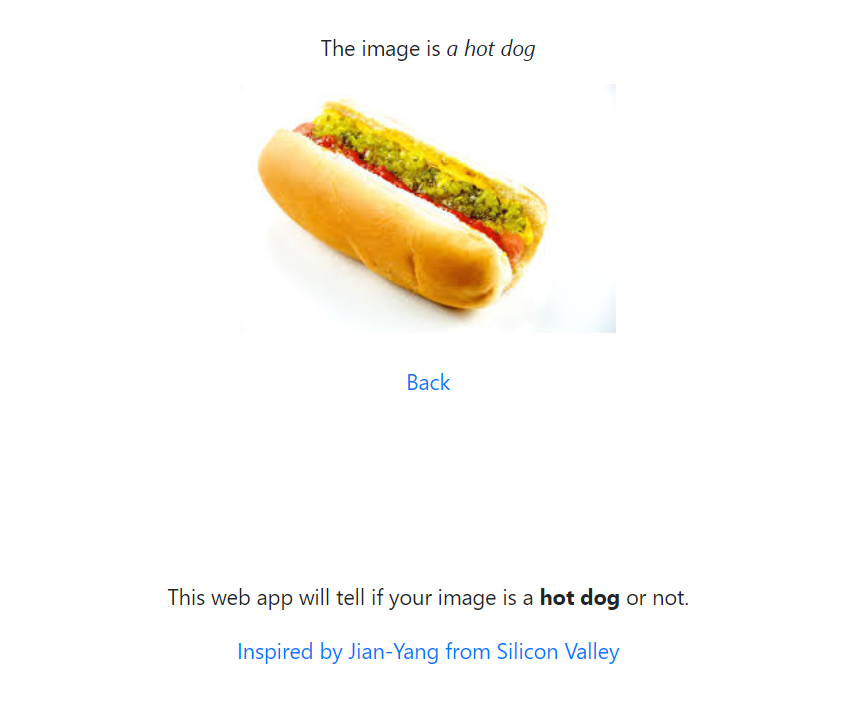
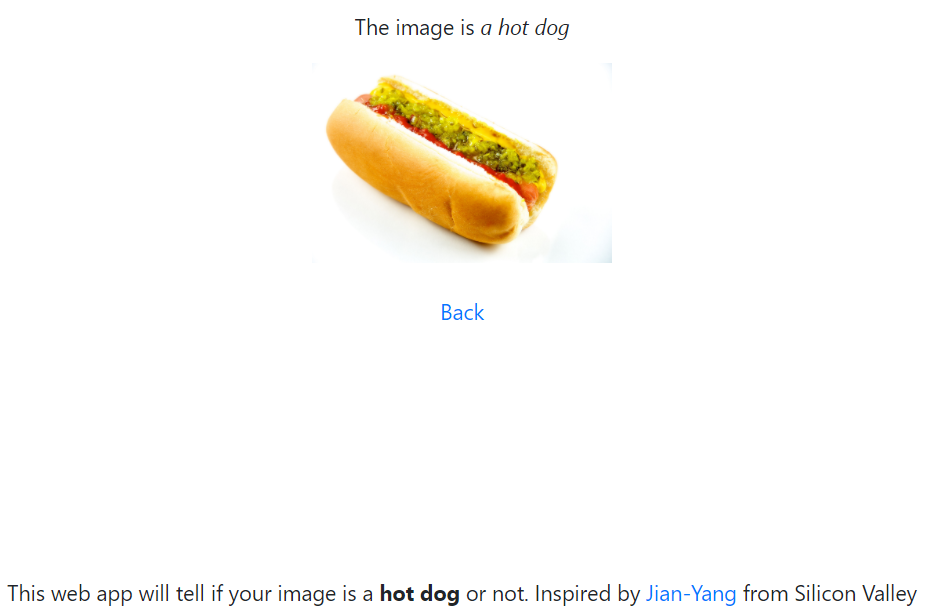
Error handling

diff --git a/templates/layout.html b/templates/layout.html
@@ -12,7 +12,14 @@
             }
             section{
                 margin: auto;
-                height: 80vh;
+                height: 70vh;
+                display: flex;
+                align-items: center;
+                justify-content: center;
+            }
+            .footwrap{
+                margin: auto;
+                height: 25vh;
                 display: flex;
                 align-items: center;
                 justify-content: center;
@@ -21,18 +28,16 @@
     </head>
     <body>
         <section>
-        <div class="container-fluid">
-            <div class="headwrap">
-                {% block body %}
-                {% endblock %}
-            </div>
+            <div class="container">
+                <div class="headwrap">
+                    {% block body %}
+                    {% endblock %}
+                </div>
             <div>
-            </section>
-            <div class="footwrap">
-            <center>
-                <p>This web app will tell if your image is a <strong>hot dog</strong> or not.</p>
-                <a href="https://www.imdb.com/title/tt2575988/" target="_blank">Inspired by Jian-Yang from Silicon Valley</a>
-            </center>
+        </section>
+            <div class="footwrap" style="align-content: center;">
+                <p>This web app will tell if your image is a <strong>hot dog</strong> or not.
+                Inspired by <a href="https://www.imdb.com/title/tt2575988/" target="_blank">Jian-Yang</a> from Silicon Valley</p>
             </div>
 
         <script src="https://code.jquery.com/jquery-3.5.1.slim.min.js" integrity="sha384-DfXdz2htPH0lsSSs5nCTpuj/zy4C+OGpamoFVy38MVBnE+IbbVYUew+OrCXaRkfj" crossorigin="anonymous"></script>

diff --git a/templates/index.html b/templates/index.html
@@ -1,10 +1,9 @@
 {% extends "layout.html" %}
 {% block body%}
+        <a href="https://github.com/shridpant/hungryish" target="_blank"><img src="../static/dinosaur.svg" width="8%"></a>
         <h3>Upload your image!</h3> <br /><br />
         <form method=post enctype=multipart/form-data>
-            <p>
                 <input type=file name=file>
                 <input type=submit value=Upload>
-            </p>
         </form> 
 {% endblock %}

diff --git a/templates/error.html b/templates/error.html
@@ -1,0 +1,6 @@
+{% extends "layout.html" %}
+
+{% block body %}
+    <img width="30%" alt="{{ top }}" src="http://memegen.link/custom/{{ top | urlencode }}/{{ bottom | urlencode }}.jpg?alt=https://i.imgur.com/CsCgN7Ll.png" title="{{ top }}"><br /><br />
+    <a href="/">Back</a>
+{% endblock %}

diff --git a/app.py b/app.py
@@ -1,6 +1,7 @@
 import os 
 from flask import Flask, request, redirect, url_for, render_template
 from werkzeug.utils import secure_filename
+from werkzeug.exceptions import default_exceptions, HTTPException, InternalServerError
 import tensorflow as tf
 import matplotlib.pyplot as plt 
 
@@ -8,38 +9,60 @@ app = Flask(__name__)
 
 @app.route('/', methods=['GET', 'POST']) 
 def main_page():
-    if request.method == 'POST':
-        file = request.files['file']
-        filename = secure_filename(file.filename)
-        file.save(os.path.join('static', filename))
-        return redirect(url_for('prediction', filename=filename))
-    return render_template('index.html')
+    try:
+        if request.method == 'POST':
+            file = request.files['file']
+            filename = secure_filename(file.filename)
+            file.save(os.path.join('static', filename))
+            return redirect(url_for('prediction', filename=filename))
+        return render_template('index.html')
+    except Exception as msg:
+        return error(msg)
 
 @app.route('/prediction/<filename>') 
 def prediction(filename):
-    my_image = os.getcwd() + '\\static\\' + str(filename)
-    html_image = image_file = url_for('static', filename=str(filename))
-    image_file = tf.io.gfile.GFile(my_image, 'rb')
-    data = image_file.read()
-    # Model Initialization
-    classes = [line.rstrip() for line in tf.io.gfile.GFile(os.getcwd() + "\\src\\classes.txt")]
-    with tf.io.gfile.GFile(os.getcwd() + "\\src\\model.pb", 'rb') as inception_graph:
-        definition = tf.compat.v1.GraphDef()
-        definition.ParseFromString(inception_graph.read())
-        _ = tf.import_graph_def(definition, name='')
-    with tf.compat.v1.Session() as session:
-        tensor = session.graph.get_tensor_by_name('final_result:0')
-        #^ Feeding data as input and find the first prediction
-        result = session.run(tensor, {'DecodeJpeg/contents:0': data})
-        top_results = result[0].argsort()[-len(result[0]):][::-1] 
-        max_score = 0
-        for type in top_results:
-            hot_dog_or_not = classes[type]
-            score = result[0][type]
-            if score > max_score:
-                max_score = score
-                predictions = hot_dog_or_not
-    return render_template('predict.html', predictions=str(predictions), my_image=html_image)
+    try:
+        my_image = os.getcwd() + '\\static\\' + str(filename)
+        html_image = image_file = url_for('static', filename=str(filename))
+        image_file = tf.io.gfile.GFile(my_image, 'rb')
+        data = image_file.read()
+        # Model Initialization
+        classes = [line.rstrip() for line in tf.io.gfile.GFile(os.getcwd() + "\\src\\classes.txt")]
+        with tf.io.gfile.GFile(os.getcwd() + "\\src\\model.pb", 'rb') as inception_graph:
+            definition = tf.compat.v1.GraphDef()
+            definition.ParseFromString(inception_graph.read())
+            _ = tf.import_graph_def(definition, name='')
+        with tf.compat.v1.Session() as session:
+            tensor = session.graph.get_tensor_by_name('final_result:0')
+            #^ Feeding data as input and find the first prediction
+            result = session.run(tensor, {'DecodeJpeg/contents:0': data})
+            top_results = result[0].argsort()[-len(result[0]):][::-1] 
+            max_score = 0
+            for type in top_results:
+                hot_dog_or_not = classes[type]
+                score = result[0][type]
+                if score > max_score:
+                    max_score = score
+                    predictions = hot_dog_or_not
+        return render_template('predict.html', predictions=str(predictions), my_image=html_image)
+    except Exception as msg:
+        return error(msg)
+
+def error(message, code=400):
+    if len(str(message)) < 50:
+        return render_template("error.html", top=code, bottom=message), code
+    else:
+        return render_template("error.html", top=code, bottom="Error occured"), code
+
+# Error handler
+def errorhandler(e):
+    if not isinstance(e, HTTPException):
+        e = InternalServerError()
+    return error(e.name, e.code)
+
+# Listen for errors
+for code in default_exceptions:
+    app.errorhandler(code)(errorhandler)
 
 if __name__ == "__main__":
     app.run(debug=True)
